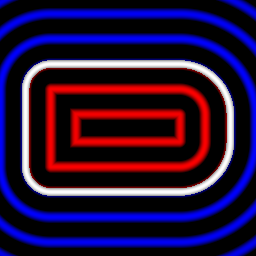
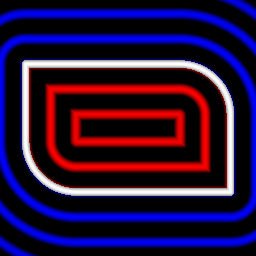
improve sdroundedbox node ui and param names

diff --git a/material_maker/doc/node_simple_sdf_shapes_sdroundedbox.rst b/material_maker/doc/node_simple_sdf_shapes_sdroundedbox.rst
@@ -21,17 +21,17 @@ Parameters
 
 The **sdRoundedBox** node accepts the following parameters:
 
-* **Width** of the rounded box.
+* **Width* of the rounded box.
 
 * **Height** of the rounded box.
 
-* **Bottom Left** corner radius of the rounded box.
+* **Top Left** corner radius of the rounded box.
 
 * **Top Right** corner radius of the rounded box.
 
 * **Bottom Left** corner radius of the rounded box.
 
-* **Top Left** corner radius of the rounded box.
+* **Bottom Right** corner radius of the rounded box.
 
 * Position of the center along X and Y axis
 
